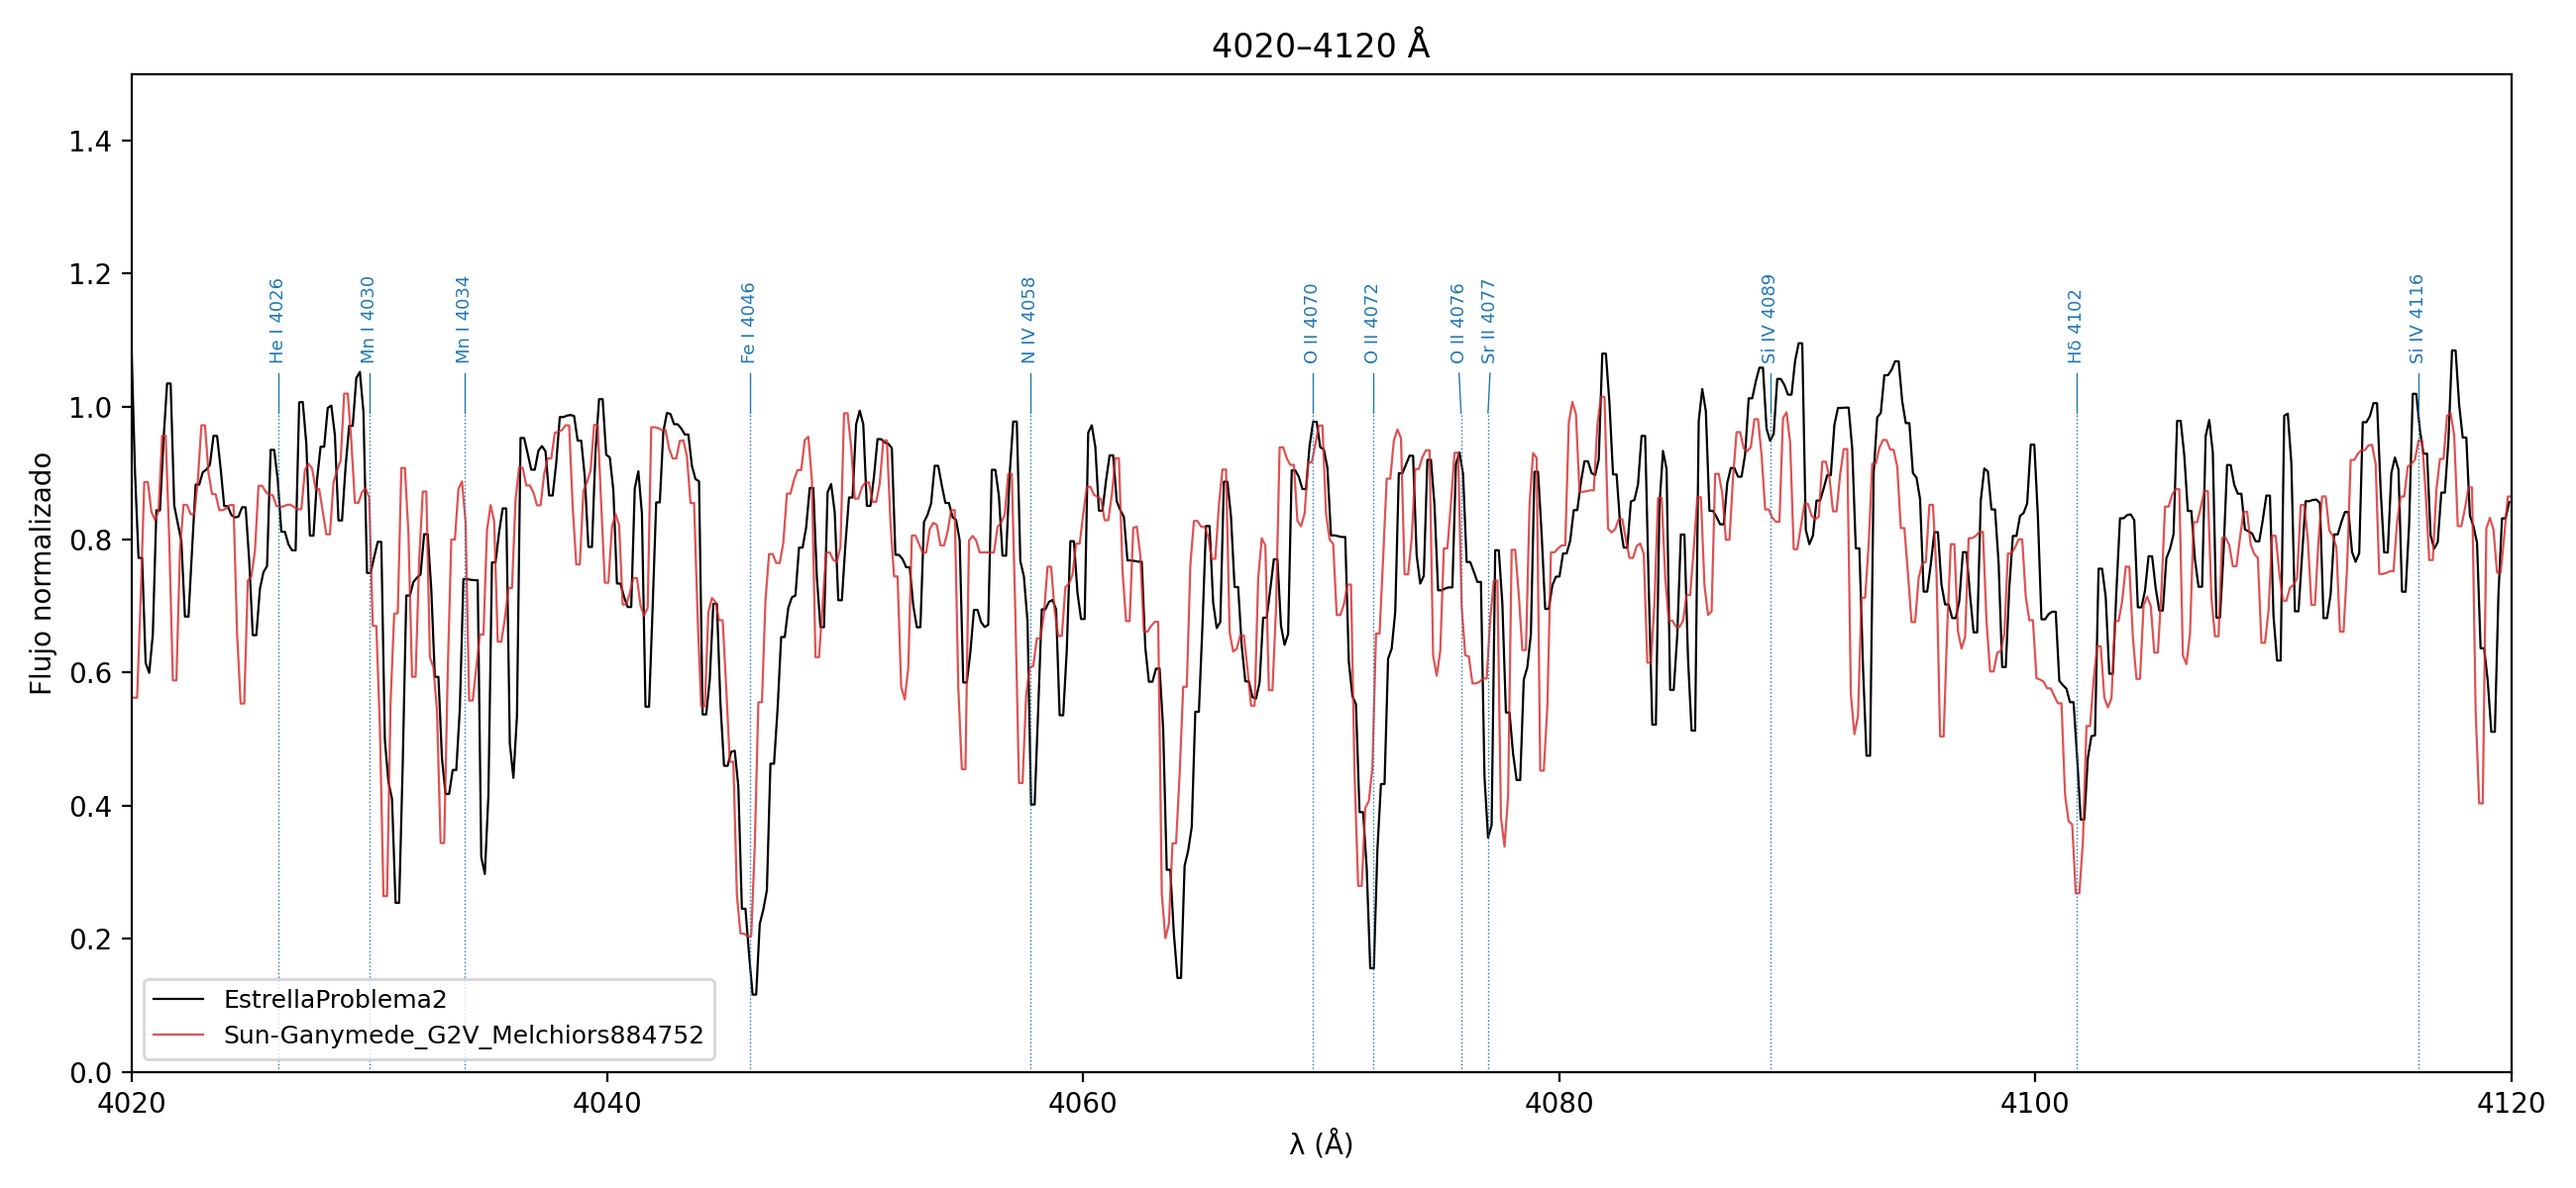
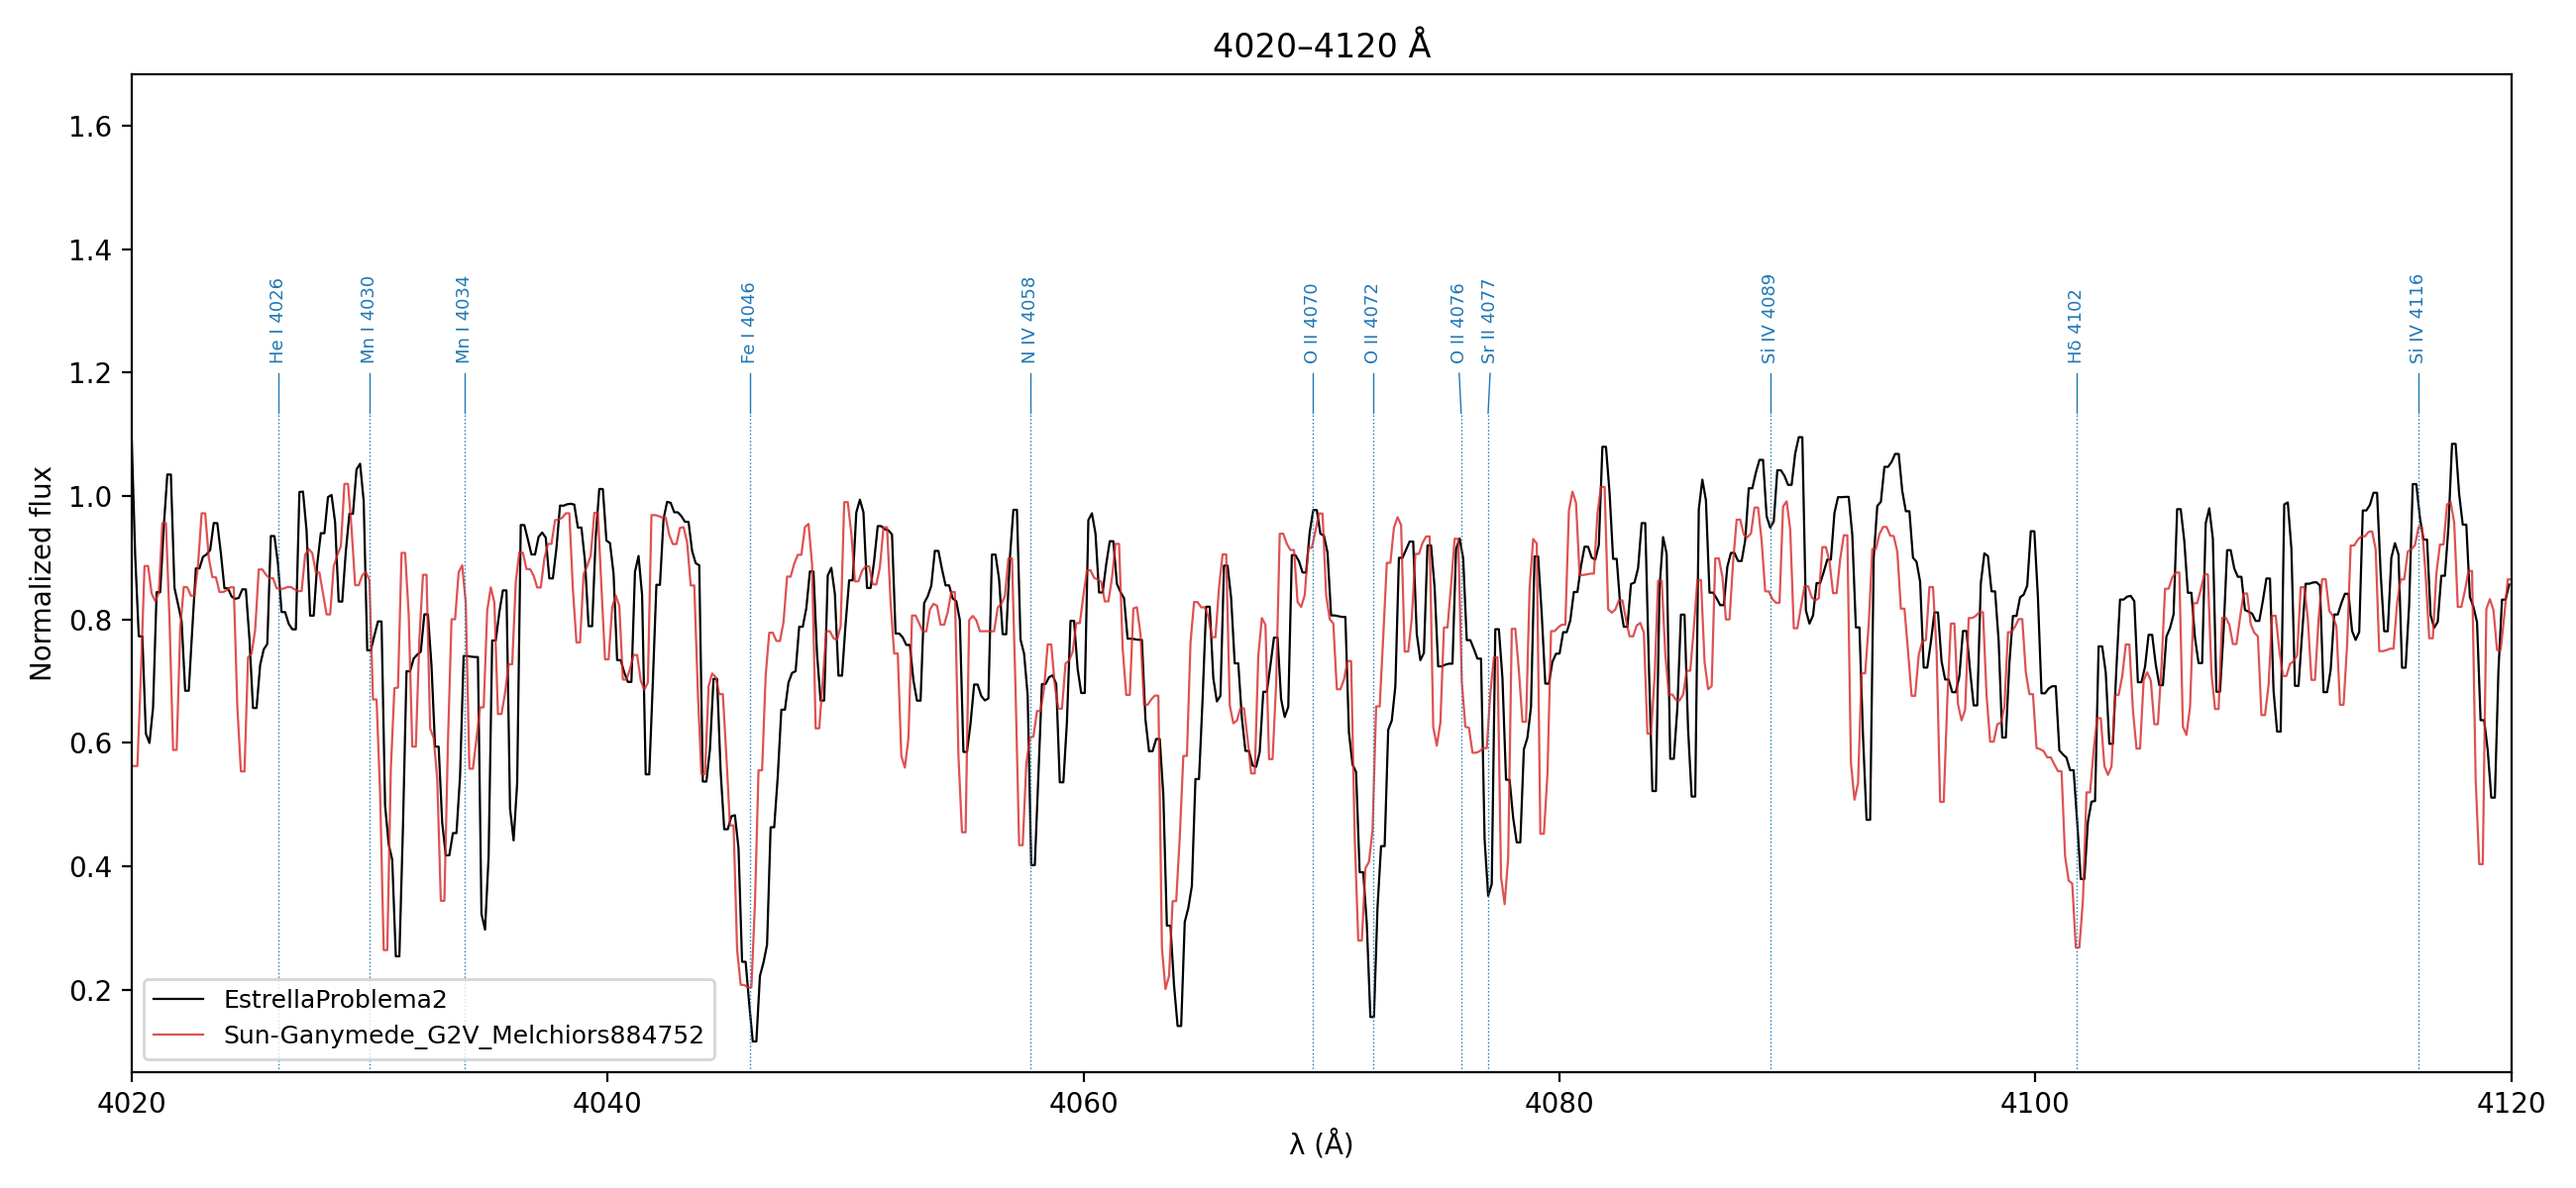
all updated

diff --git a/src/gui.py b/src/gui.py
@@ -18,17 +18,17 @@ from .models import (
     TARGET_STARS,
 )
 from .plotting import SAVE_FORMATS, Spectrum, draw_window, export_file
-from .spectra import METHODS, load_spectrum, normalize_spectrum
+from .spectra import METHODS, load_spectrum, rectify_spectrum
 
 AUTO = "automatic"
 
-# Only the "EstrellaProblema…" spectra come unnormalized; the rest already are.
-UNNORMALIZED_PREFIX = "EstrellaProblema"
+# Only the "EstrellaProblema…" spectra come unrectified; the rest already are.
+UNRECTIFIED_PREFIX = "EstrellaProblema"
 TARGET_METHODS = {path.name: method for path, method in TARGET_STARS.items()}
 
 
-def needs_normalization(path: Path) -> bool:
-    return path.name in TARGET_METHODS or path.stem.startswith(UNNORMALIZED_PREFIX)
+def needs_rectification(path: Path) -> bool:
+    return path.name in TARGET_METHODS or path.stem.startswith(UNRECTIFIED_PREFIX)
 
 
 class App(tk.Tk):
@@ -54,7 +54,7 @@ class App(tk.Tk):
         self.custom: set = set()
 
         self._raw: Dict[Path, tuple] = {}          # path -> (λ, flux)
-        self._normalized: Dict[tuple, object] = {}  # (path, method) -> normalized flux
+        self._rectified: Dict[tuple, object] = {}  # (path, method) -> rectified flux
 
         self._build_controls()
         self._build_plot()
@@ -84,10 +84,10 @@ class App(tk.Tk):
                 ttk.Button(row, text="Remove", command=lambda i=i: self._set_path(i, None)).pack(side=tk.LEFT, padx=3)
             self.file_labels.append(label)
 
-        # 2. Normalization
-        box = ttk.LabelFrame(panel, text="2. Normalization", padding=8)
+        # 2. Rectification
+        box = ttk.LabelFrame(panel, text="2. Rectification", padding=8)
         box.pack(fill=tk.X, pady=(0, 8))
-        ttk.Label(box, text="The «EstrellaProblema» files are normalized\nautomatically; the rest already are.",
+        ttk.Label(box, text="The «EstrellaProblema» files are rectified\nautomatically; the rest already are.",
                   foreground="dimgray").pack(anchor=tk.W)
         row = ttk.Frame(box)
         row.pack(fill=tk.X, pady=(4, 0))
@@ -197,18 +197,18 @@ class App(tk.Tk):
             if path not in self._raw:
                 self._raw[path] = load_spectrum(path)
             wavelength, flux = self._raw[path]
-            if needs_normalization(path):
+            if needs_rectification(path):
                 key = (path, self._method_for(path))
-                if key not in self._normalized:
-                    self.status.set(f"Normalizing {path.stem}…")
+                if key not in self._rectified:
+                    self.status.set(f"Rectifying {path.stem}…")
                     self.update_idletasks()
-                    self._normalized[key] = normalize_spectrum(wavelength, flux, key[1])[1]
-                flux = self._normalized[key]
+                    self._rectified[key] = rectify_spectrum(wavelength, flux, key[1])[1]
+                flux = self._rectified[key]
             spectra.append((path.stem, wavelength, flux))
         return spectra
 
     def _flux_label(self) -> str:
-        return "Normalized flux"
+        return "Rectified flux"
 
     # --------------------------------------------------------------- Region
     def _on_region_selected(self) -> None:
@@ -271,7 +271,7 @@ class App(tk.Tk):
         window = self._current_window()
         try:
             spectra = self._spectra()
-        except Exception as error:  # unreadable file, failed normalization…
+        except Exception as error:  # unreadable file, failed rectification…
             messagebox.showerror("Error", f"Could not process the spectrum:\n{error}")
             self.status.set("Error while processing the spectrum.")
             return

diff --git a/src/spectra.py b/src/spectra.py
@@ -1,4 +1,4 @@
-"""Spectrum loading and continuum normalization."""
+"""Spectrum loading and continuum rectification."""
 
 from pathlib import Path
 from typing import List, Tuple
@@ -7,7 +7,7 @@ import numpy as np
 from numpy.polynomial import Legendre
 from scipy.interpolate import PchipInterpolator
 
-# Normalization parameters (they used to be a positional `11`).
+# Rectification parameters (they used to be a positional `11`).
 POLYNOMIAL_DEGREE = 11
 ENVELOPE_BIN_WIDTH = 11.0  # Å
 
@@ -73,17 +73,17 @@ def fit_envelope_continuum(
     return interpolator(wavelength)
 
 
-def normalize_spectrum(
+def rectify_spectrum(
     wavelength: np.ndarray,
     flux: np.ndarray,
     method: str,
 ) -> Tuple[np.ndarray, np.ndarray]:
-    """Returns (continuum, normalized_flux) for the chosen method."""
+    """Returns (continuum, rectified_flux) for the chosen method."""
     if method == "polynomial":
         continuum = fit_polynomial_continuum(wavelength, flux, degree=POLYNOMIAL_DEGREE)
     elif method == "envelope":
         continuum = fit_envelope_continuum(wavelength, flux, bin_width=ENVELOPE_BIN_WIDTH)
     else:
-        raise ValueError(f"Unknown normalization method: {method}")
+        raise ValueError(f"Unknown rectification method: {method}")
 
     return continuum, flux / continuum

diff --git a/src/plotting.py b/src/plotting.py
@@ -46,7 +46,7 @@ def annotate_spectral_lines(
     """
     Shades the bands in gray and marks the lines with their labels.
     The y coordinate is an axes fraction (0 = bottom, 1 = top), so it works
-    the same for normalized and raw flux.
+    the same for rectified and raw flux.
     """
     transform = ax.get_xaxis_transform()  # x in Å, y as axes fraction
 
